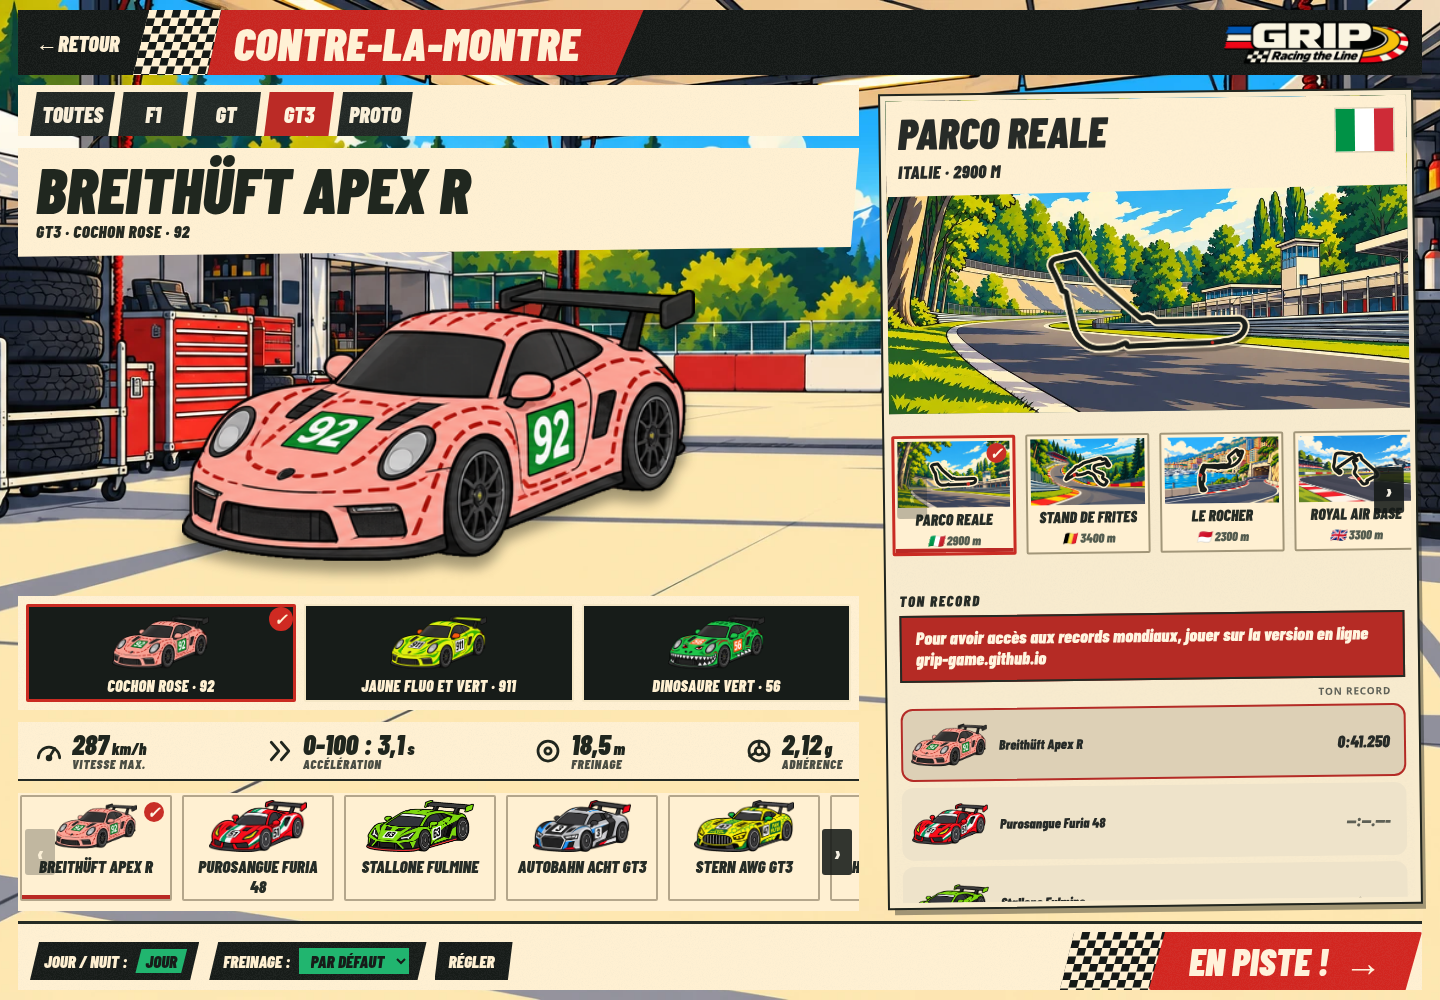
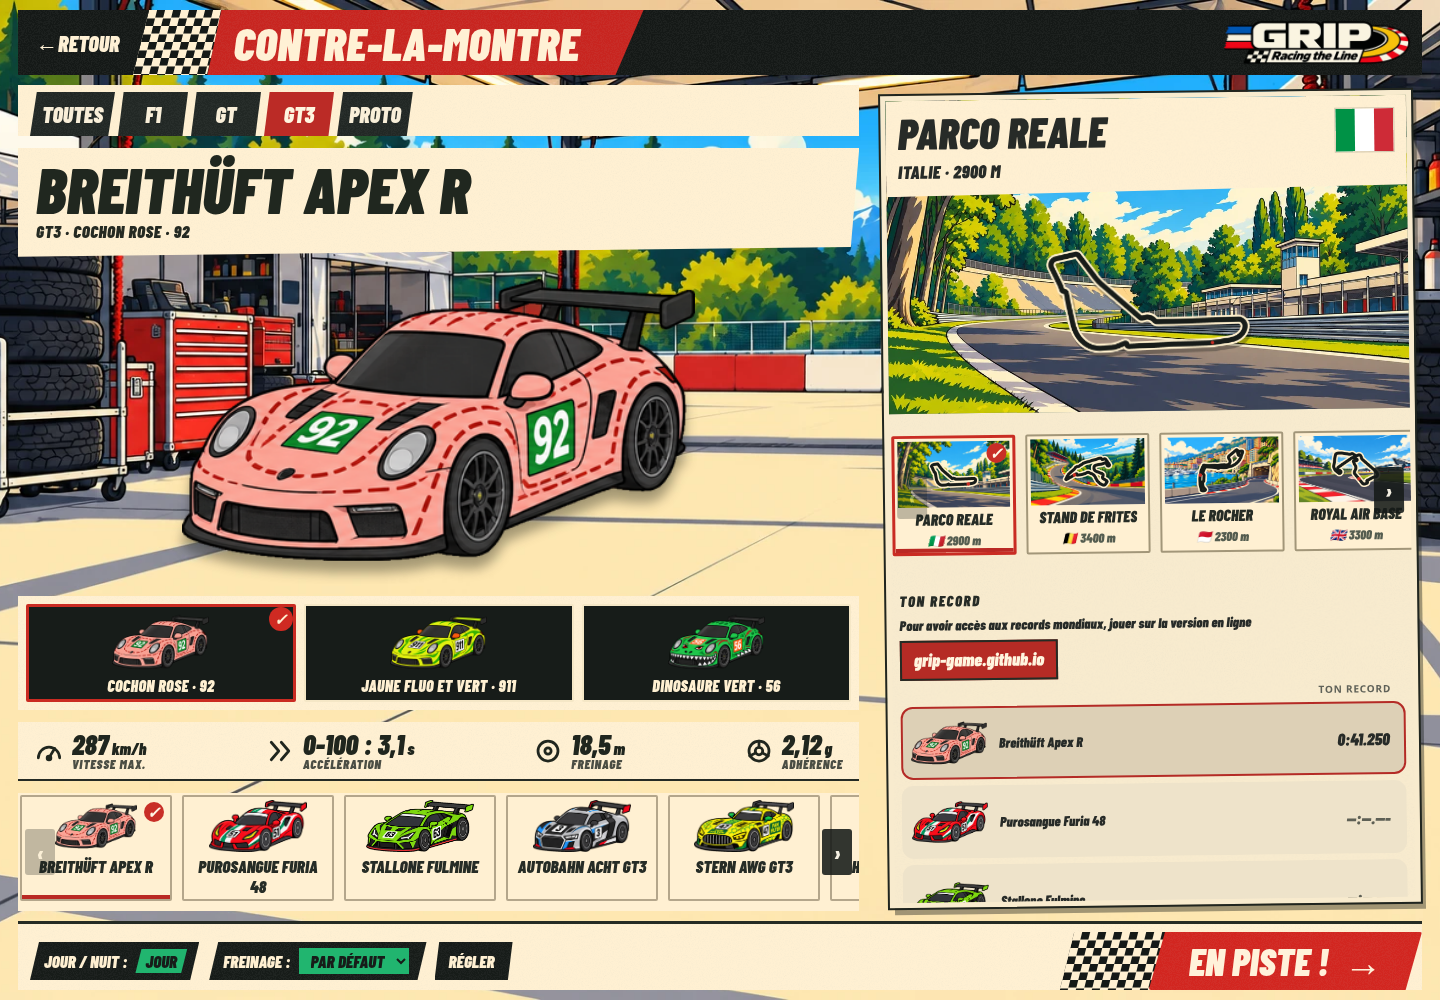
0.55.1: separate world-records explanation from hostname button

Changed region(s): [[0.625, 0.589, 1.0, 0.868], [0.9375, 0.806, 0.9688, 0.837], [0.6562, 0.868, 0.6875, 0.899]]

diff --git a/index.html b/index.html
@@ -15,50 +15,50 @@
   <meta name="color-scheme" content="dark">
   <meta name="darkreader-lock">
   <title>GRIP — Racing the Line</title>
-  <link rel="icon" type="image/png" sizes="32x32" href="art/icone-32.png?v=0.55.0">
-  <link rel="icon" type="image/png" sizes="16x16" href="art/icone-16.png?v=0.55.0">
-  <link rel="icon" type="image/png" sizes="48x48" href="art/icone-48.png?v=0.55.0">
-  <link rel="icon" type="image/x-icon" href="favicon.ico?v=0.55.0">
-  <link rel="apple-touch-icon" href="art/icone-180.png?v=0.55.0">
-  <link rel="manifest" href="site.webmanifest?v=0.55.0">
-  <link rel="stylesheet" href="css/style.css?v=0.55.0">
+  <link rel="icon" type="image/png" sizes="32x32" href="art/icone-32.png?v=0.55.1">
+  <link rel="icon" type="image/png" sizes="16x16" href="art/icone-16.png?v=0.55.1">
+  <link rel="icon" type="image/png" sizes="48x48" href="art/icone-48.png?v=0.55.1">
+  <link rel="icon" type="image/x-icon" href="favicon.ico?v=0.55.1">
+  <link rel="apple-touch-icon" href="art/icone-180.png?v=0.55.1">
+  <link rel="manifest" href="site.webmanifest?v=0.55.1">
+  <link rel="stylesheet" href="css/style.css?v=0.55.1">
 </head>
 <body>
   <canvas id="game"></canvas>
   <div id="ui" class="hidden"></div>
 
-  <script src="js/version.js?v=0.55.0"></script>
-  <script src="js/maj.js?v=0.55.0"></script>
-  <script src="js/util.js?v=0.55.0"></script>
-  <script src="js/controls.js?v=0.55.0"></script>
-  <script src="js/traces.js?v=0.55.0"></script>
-  <script src="js/tracks.js?v=0.55.0"></script>
-  <script src="js/track.js?v=0.55.0"></script>
-  <script src="js/cars.js?v=0.55.0"></script>
-  <script src="js/carart.js?v=0.55.0"></script>
-  <script src="js/car.js?v=0.55.0"></script>
-  <script src="js/flags.js?v=0.55.0"></script>
-  <script src="js/race.js?v=0.55.0"></script>
-  <script src="js/career.js?v=0.55.0"></script>
-  <script src="js/store.js?v=0.55.0"></script>
-  <script src="js/props.js?v=0.55.0"></script>
-  <script src="js/room-rtc.js?v=0.55.0"></script>
-  <script src="js/paquet.js?v=0.55.0"></script>
-  <script src="js/spectator.js?v=0.55.0"></script>
-  <script src="js/net-drive.js?v=0.55.0"></script>
-  <script src="js/net.js?v=0.55.0"></script>
-  <script src="js/mondial.js?v=0.55.0"></script>
-  <script src="js/palmares.js?v=0.55.0"></script>
-  <script src="js/analytics.js?v=0.55.0"></script>
-  <script src="js/circuit-graphics.js?v=0.55.0"></script>
-<script src="js/render.js?v=0.55.0"></script>
-  <script src="js/engine-audio.js?v=0.55.0"></script>
-  <script src="js/audio.js?v=0.55.0"></script>
-  <script src="js/ui.js?v=0.55.0"></script>
-  <script src="js/gamepad-ui.js?v=0.55.0"></script>
-  <script src="js/main.js?v=0.55.0"></script>
-  <script src="js/static-backdrop.js?v=0.55.0"></script>
-  <script src="js/chromium-cache-fix.js?v=0.55.0"></script>
-  <script src="js/chromium-cache.js?v=0.55.0"></script>
+  <script src="js/version.js?v=0.55.1"></script>
+  <script src="js/maj.js?v=0.55.1"></script>
+  <script src="js/util.js?v=0.55.1"></script>
+  <script src="js/controls.js?v=0.55.1"></script>
+  <script src="js/traces.js?v=0.55.1"></script>
+  <script src="js/tracks.js?v=0.55.1"></script>
+  <script src="js/track.js?v=0.55.1"></script>
+  <script src="js/cars.js?v=0.55.1"></script>
+  <script src="js/carart.js?v=0.55.1"></script>
+  <script src="js/car.js?v=0.55.1"></script>
+  <script src="js/flags.js?v=0.55.1"></script>
+  <script src="js/race.js?v=0.55.1"></script>
+  <script src="js/career.js?v=0.55.1"></script>
+  <script src="js/store.js?v=0.55.1"></script>
+  <script src="js/props.js?v=0.55.1"></script>
+  <script src="js/room-rtc.js?v=0.55.1"></script>
+  <script src="js/paquet.js?v=0.55.1"></script>
+  <script src="js/spectator.js?v=0.55.1"></script>
+  <script src="js/net-drive.js?v=0.55.1"></script>
+  <script src="js/net.js?v=0.55.1"></script>
+  <script src="js/mondial.js?v=0.55.1"></script>
+  <script src="js/palmares.js?v=0.55.1"></script>
+  <script src="js/analytics.js?v=0.55.1"></script>
+  <script src="js/circuit-graphics.js?v=0.55.1"></script>
+<script src="js/render.js?v=0.55.1"></script>
+  <script src="js/engine-audio.js?v=0.55.1"></script>
+  <script src="js/audio.js?v=0.55.1"></script>
+  <script src="js/ui.js?v=0.55.1"></script>
+  <script src="js/gamepad-ui.js?v=0.55.1"></script>
+  <script src="js/main.js?v=0.55.1"></script>
+  <script src="js/static-backdrop.js?v=0.55.1"></script>
+  <script src="js/chromium-cache-fix.js?v=0.55.1"></script>
+  <script src="js/chromium-cache.js?v=0.55.1"></script>
 </body>
 </html>

diff --git a/js/ui.js b/js/ui.js
@@ -151,7 +151,7 @@ const I18N = {
     horsClassement: 'Hors tableau mondial : ', horsGuide: 'guide de freinage', horsAimant: 'aimant', horsFf: 'anticipation', horsUsure: 'usure',
     refus_reseau: 'Pas de réseau au moment de l’envoi. Ton temps est gardé ici.',
     refus_autre: (r) => `Temps non retenu par le serveur (${r}).`,
-    onlineRecords: 'Pour avoir accès aux records mondiaux, jouer sur la version en ligne grip-game.github.io', onlineRecordsShort: 'Records mondiaux ↗', worldBest: 'Monde', worldNeedsAccount: 'Connecte-toi pour inscrire tes temps au tableau mondial.', signIn: 'Se connecter avec Google', signOut: 'Se déconnecter',
+    onlineRecords: 'Pour avoir accès aux records mondiaux, jouer sur la version en ligne', onlineRecordsShort: 'Records mondiaux ↗', worldBest: 'Monde', worldNeedsAccount: 'Connecte-toi pour inscrire tes temps au tableau mondial.', signIn: 'Se connecter avec Google', signOut: 'Se déconnecter',
     palmares: 'Ton palmarès', palmaresTrophee: 'Trophée', palmaresNiveau: 'Niveau',
     trophee_chocolat: 'Chocolat', trophee_bronze: 'Bronze', trophee_argent: 'Argent', trophee_or: 'Or', trophee_crane: 'Crâne',
     palmaresRegle: (n) => `Gagne une course d’au moins ${n} tours : le niveau de difficulté donne le trophée.`,
@@ -300,7 +300,7 @@ const I18N = {
     horsClassement: 'Outside the world board: ', horsGuide: 'braking guide', horsAimant: 'magnet', horsFf: 'anticipation', horsUsure: 'tyre wear',
     refus_reseau: 'No network when sending. Your time is kept here.',
     refus_autre: (r) => `Time not kept by the server (${r}).`,
-    onlineRecords: 'To access world records, play the online version at grip-game.github.io', onlineRecordsShort: 'World records ↗', worldBest: 'World', worldNeedsAccount: 'Sign in to put your times on the world board.', signIn: 'Sign in with Google', signOut: 'Sign out',
+    onlineRecords: 'To access world records, play the online version', onlineRecordsShort: 'World records ↗', worldBest: 'World', worldNeedsAccount: 'Sign in to put your times on the world board.', signIn: 'Sign in with Google', signOut: 'Sign out',
     palmares: 'Your trophies', palmaresTrophee: 'Trophy', palmaresNiveau: 'Level',
     trophee_chocolat: 'Chocolate', trophee_bronze: 'Bronze', trophee_argent: 'Silver', trophee_or: 'Gold', trophee_crane: 'Skull',
     palmaresRegle: (n) => `Win a race of at least ${n} laps: the difficulty level gives the trophy.`,
@@ -461,7 +461,8 @@ class UI {
   sens, juste un connecté à Google suffirait ». Le joueur n'a rien à faire de plus : son prochain
   meilleur tour partira de lui-même. */
   worldVersionLink(compact = false) {
-    return `<a class="${compact ? 'extra-card' : 'world-online-link'}" data-world-online href="https://grip-game.github.io/" target="_blank" rel="noopener" title="${escapeHtml(this.t('onlineRecords'))}"><span>${escapeHtml(this.t(compact ? 'onlineRecordsShort' : 'onlineRecords'))}</span></a>`;
+    const link = `<a class="${compact ? 'extra-card' : 'world-online-button'}" data-world-online href="https://grip-game.github.io/" target="_blank" rel="noopener" title="${escapeHtml(this.t('onlineRecords'))}">grip-game.github.io</a>`;
+    return compact ? link : `<span class="world-online-notice"><span class="world-online-copy">${escapeHtml(this.t('onlineRecords'))}</span>${link}</span>`;
   }
 
   etatMondial() {

diff --git a/tools/e2e-itch-records.js b/tools/e2e-itch-records.js
@@ -7,13 +7,13 @@ const ROOT=path.resolve(__dirname,'..'),OUT=path.resolve(process.argv[2]||'/tmp/
  const serve=root=>http.createServer((req,res)=>{const f=path.resolve(root,'.'+decodeURIComponent(req.url.split('?')[0]));if(!f.startsWith(root+path.sep)||!fs.existsSync(f)||!fs.statSync(f).isFile()){res.writeHead(404);return res.end();}res.setHeader('Content-Type',({'.html':'text/html','.js':'text/javascript','.css':'text/css','.json':'application/json','.svg':'image/svg+xml'})[path.extname(f)]||'application/octet-stream');fs.createReadStream(f).pipe(res);});
  const servers=[serve(ROOT),serve(path.join(ROOT,'dist-itch/game'))];for(const s of servers)await new Promise(r=>s.listen(0,'127.0.0.1',r));const browser=await chromium.launch(),errors=[],results=[];
  try{for(const itch of [false,true]){
-  const ctx=await browser.newContext({viewport:{width:1440,height:1000}});await ctx.addInitScript(()=>{try{sessionStorage.setItem('eol.parti',String(Date.now()));}catch(_){}});const p=await ctx.newPage();p.on('pageerror',e=>errors.push(e.message));await p.goto(`http://127.0.0.1:${servers[Number(itch)].address().port}/index.html?v=0.55.0`);await p.waitForFunction(()=>window.app?.save);
+  const ctx=await browser.newContext({viewport:{width:1440,height:1000}});await ctx.addInitScript(()=>{try{sessionStorage.setItem('eol.parti',String(Date.now()));}catch(_){}});const p=await ctx.newPage();p.on('pageerror',e=>errors.push(e.message));await p.goto(`http://127.0.0.1:${servers[Number(itch)].address().port}/index.html?v=0.55.1`);await p.waitForFunction(()=>window.app?.save);
   assert.equal(await p.evaluate(()=>app.isItch),itch);assert.equal(await p.evaluate(()=>app.mondial===null),itch);
   await p.evaluate(()=>{app.save.name='Pilote';app.save.lang='fr';app.ui.lang='fr';app.save.sound=false;app.audio.setEnabled(false);app.state='menu';app.analytics.begin=()=>{};app.analytics.observe=()=>{};app.ui.menu();});
   assert.equal(await p.locator('[data-action="fullscreen"]').count(),0,'itch fullscreen configuration is not a game code change');
   if(itch)assert.equal(await p.locator('[data-world-online]').getAttribute('href'),'https://grip-game.github.io/');
   await p.evaluate(()=>app.ui.settings());
-  if(itch){assert.equal(await p.locator('[data-action="google"]').count(),0);assert.match(await p.locator('[data-world-online]').innerText(),/Pour avoir accès aux records mondiaux/);}
+  if(itch){assert.equal(await p.locator('[data-action="google"]').count(),0);assert.equal(await p.locator('[data-world-online]').innerText(),'grip-game.github.io');assert.match(await p.locator('.world-online-copy').innerText(),/Pour avoir accès aux records mondiaux/);assert.equal(await p.locator('.world-online-copy').evaluate(e=>!!e.closest('a')),false);}
   else{assert(await p.locator('[data-action="google"]').count());assert(!await p.evaluate(()=>app.ui.etatMondial().includes('Redirect URLs')));}
   await p.evaluate(()=>{app.save.cat='gt3';app.save.filtreCat='gt3';app.save.bestLaps['monza|gt3|porsche991gt3r']=41.25;app.ui.setup.classId='gt3';app.ui.setup.trackId='monza';app.ui.setupScreen('timetrial');});
   const text=await p.locator('#ui').innerText();assert(!/Redirect URLs|sans jeton|adresse portait/.test(text));

diff --git a/editor.html b/editor.html
@@ -4,12 +4,12 @@
   <meta charset="utf-8">
   <meta name="viewport" content="width=device-width, initial-scale=1">
   <title>GRIP — Éditeur de circuits</title>
-  <link rel="icon" type="image/png" sizes="32x32" href="art/icone-32.png?v=0.55.0">
-  <link rel="icon" type="image/png" sizes="16x16" href="art/icone-16.png?v=0.55.0">
-  <link rel="icon" type="image/png" sizes="48x48" href="art/icone-48.png?v=0.55.0">
-  <link rel="icon" type="image/x-icon" href="favicon.ico?v=0.55.0">
-  <link rel="apple-touch-icon" href="art/icone-180.png?v=0.55.0">
-  <link rel="stylesheet" href="css/style.css?v=0.55.0">
+  <link rel="icon" type="image/png" sizes="32x32" href="art/icone-32.png?v=0.55.1">
+  <link rel="icon" type="image/png" sizes="16x16" href="art/icone-16.png?v=0.55.1">
+  <link rel="icon" type="image/png" sizes="48x48" href="art/icone-48.png?v=0.55.1">
+  <link rel="icon" type="image/x-icon" href="favicon.ico?v=0.55.1">
+  <link rel="apple-touch-icon" href="art/icone-180.png?v=0.55.1">
+  <link rel="stylesheet" href="css/style.css?v=0.55.1">
   <style>
     body { overflow: hidden; }
     #ed { position: fixed; inset: 0; display: grid; grid-template-columns: 300px 1fr; }
@@ -61,16 +61,16 @@
       </div>
     </div>
   </div>
-  <script src="js/util.js?v=0.55.0"></script>
-  <script src="js/traces.js?v=0.55.0"></script>
-  <script src="js/tracks.js?v=0.55.0"></script>
-  <script src="js/track.js?v=0.55.0"></script>
-  <script src="js/store.js?v=0.55.0"></script>
-  <script src="js/props.js?v=0.55.0"></script>
-  <script src="js/circuit-graphics.js?v=0.55.0"></script>
-  <script src="js/flags.js?v=0.55.0"></script>
-  <script src="js/render.js?v=0.55.0"></script>
-  <script src="js/fichier-tracks.js?v=0.55.0"></script>
-  <script src="js/editeur-decor.js?v=0.55.0"></script>
+  <script src="js/util.js?v=0.55.1"></script>
+  <script src="js/traces.js?v=0.55.1"></script>
+  <script src="js/tracks.js?v=0.55.1"></script>
+  <script src="js/track.js?v=0.55.1"></script>
+  <script src="js/store.js?v=0.55.1"></script>
+  <script src="js/props.js?v=0.55.1"></script>
+  <script src="js/circuit-graphics.js?v=0.55.1"></script>
+  <script src="js/flags.js?v=0.55.1"></script>
+  <script src="js/render.js?v=0.55.1"></script>
+  <script src="js/fichier-tracks.js?v=0.55.1"></script>
+  <script src="js/editeur-decor.js?v=0.55.1"></script>
 </body>
 </html>

diff --git a/lignes.html b/lignes.html
@@ -4,12 +4,12 @@
 <meta charset="utf-8">
 <meta name="viewport" content="width=device-width, initial-scale=1, viewport-fit=cover, maximum-scale=1">
 <title>GRIP — Éditeur de lignes et de panneaux</title>
-<link rel="icon" type="image/png" sizes="32x32" href="art/icone-32.png?v=0.55.0">
-<link rel="icon" type="image/png" sizes="16x16" href="art/icone-16.png?v=0.55.0">
-<link rel="icon" type="image/png" sizes="48x48" href="art/icone-48.png?v=0.55.0">
-<link rel="icon" type="image/x-icon" href="favicon.ico?v=0.55.0">
-<link rel="apple-touch-icon" href="art/icone-180.png?v=0.55.0">
-<link rel="stylesheet" href="css/style.css?v=0.55.0">
+<link rel="icon" type="image/png" sizes="32x32" href="art/icone-32.png?v=0.55.1">
+<link rel="icon" type="image/png" sizes="16x16" href="art/icone-16.png?v=0.55.1">
+<link rel="icon" type="image/png" sizes="48x48" href="art/icone-48.png?v=0.55.1">
+<link rel="icon" type="image/x-icon" href="favicon.ico?v=0.55.1">
+<link rel="apple-touch-icon" href="art/icone-180.png?v=0.55.1">
+<link rel="stylesheet" href="css/style.css?v=0.55.1">
 <style>
   body { overflow: hidden; }
   #ed { position: fixed; inset: 0; display: grid; grid-template-columns: 340px 1fr; }
@@ -240,16 +240,16 @@
   </div>
 </div>
 
-<script src="js/store.js?v=0.55.0"></script>
-<script src="js/util.js?v=0.55.0"></script>
-<script src="js/traces.js?v=0.55.0"></script>
-<script src="js/tracks.js?v=0.55.0"></script>
-<script src="js/track.js?v=0.55.0"></script>
-<script src="js/props.js?v=0.55.0"></script>
-<script src="js/circuit-graphics.js?v=0.55.0"></script>
-<script src="js/flags.js?v=0.55.0"></script>
-<script src="js/render.js?v=0.55.0"></script>
-<script src="js/fichier-tracks.js?v=0.55.0"></script>
-<script src="js/lignes.js?v=0.55.0"></script>
+<script src="js/store.js?v=0.55.1"></script>
+<script src="js/util.js?v=0.55.1"></script>
+<script src="js/traces.js?v=0.55.1"></script>
+<script src="js/tracks.js?v=0.55.1"></script>
+<script src="js/track.js?v=0.55.1"></script>
+<script src="js/props.js?v=0.55.1"></script>
+<script src="js/circuit-graphics.js?v=0.55.1"></script>
+<script src="js/flags.js?v=0.55.1"></script>
+<script src="js/render.js?v=0.55.1"></script>
+<script src="js/fichier-tracks.js?v=0.55.1"></script>
+<script src="js/lignes.js?v=0.55.1"></script>
 </body>
 </html>

diff --git a/moteur.html b/moteur.html
@@ -4,12 +4,12 @@
   <meta charset="utf-8">
   <meta name="viewport" content="width=device-width, initial-scale=1, viewport-fit=cover">
   <title>GRIP — banc moteur</title>
-  <link rel="icon" type="image/png" sizes="32x32" href="art/icone-32.png?v=0.55.0">
-  <link rel="icon" type="image/png" sizes="16x16" href="art/icone-16.png?v=0.55.0">
-  <link rel="icon" type="image/png" sizes="48x48" href="art/icone-48.png?v=0.55.0">
-  <link rel="icon" type="image/x-icon" href="favicon.ico?v=0.55.0">
-  <link rel="apple-touch-icon" href="art/icone-180.png?v=0.55.0">
-  <link rel="stylesheet" href="css/style.css?v=0.55.0">
+  <link rel="icon" type="image/png" sizes="32x32" href="art/icone-32.png?v=0.55.1">
+  <link rel="icon" type="image/png" sizes="16x16" href="art/icone-16.png?v=0.55.1">
+  <link rel="icon" type="image/png" sizes="48x48" href="art/icone-48.png?v=0.55.1">
+  <link rel="icon" type="image/x-icon" href="favicon.ico?v=0.55.1">
+  <link rel="apple-touch-icon" href="art/icone-180.png?v=0.55.1">
+  <link rel="stylesheet" href="css/style.css?v=0.55.1">
   <style>
     body { margin: 0; background: #0f1117; color: #e8e8ec; font: 15px/1.5 system-ui, sans-serif; }
     .banc { max-width: 720px; margin: 0 auto; padding: 18px 16px 60px; }
@@ -55,7 +55,7 @@
     <p class="muted" style="margin-top:18px">Ce que le mélangeur envoie, en direct :</p>
     <table id="voies"></table>
   </div>
-  <script src="js/engine-audio.js?v=0.55.0"></script>
-  <script src="js/moteur.js?v=0.55.0"></script>
+  <script src="js/engine-audio.js?v=0.55.1"></script>
+  <script src="js/moteur.js?v=0.55.1"></script>
 </body>
 </html>

diff --git a/analytics.html b/analytics.html
@@ -6,8 +6,8 @@
   <meta name="robots" content="noindex,nofollow">
   <meta name="referrer" content="same-origin">
   <title>Statistiques · GRIP</title>
-  <link rel="icon" href="art/icone-32.png?v=0.55.0">
-  <link rel="stylesheet" href="css/analytics.css?v=0.55.0">
+  <link rel="icon" href="art/icone-32.png?v=0.55.1">
+  <link rel="stylesheet" href="css/analytics.css?v=0.55.1">
 </head>
 <body>
   <header><a class="brand" href="index.html">GRIP <span> / ANALYTICS</span></a>
@@ -45,9 +45,9 @@
         <p><span data-i18n="charts">Graphiques :</span> <a href="https://github.com/apache/echarts">Apache ECharts 6.0.0</a> · <a href="vendor/echarts/LICENSE">Apache 2.0</a>. <a href="docs/analytics/README.md" data-i18n="install">Installation et définitions</a>.</p></footer>
     </div>
   </main>
-  <script src="js/version.js?v=0.55.0"></script><script src="js/util.js?v=0.55.0"></script>
-  <script src="js/traces.js?v=0.55.0"></script><script src="js/tracks.js?v=0.55.0"></script><script src="js/cars.js?v=0.55.0"></script>
-  <script src="js/mondial.js?v=0.55.0"></script><script src="vendor/echarts/echarts.min.js?v=0.55.0"></script>
-  <script src="js/analytics-dashboard.js?v=0.55.0"></script>
+  <script src="js/version.js?v=0.55.1"></script><script src="js/util.js?v=0.55.1"></script>
+  <script src="js/traces.js?v=0.55.1"></script><script src="js/tracks.js?v=0.55.1"></script><script src="js/cars.js?v=0.55.1"></script>
+  <script src="js/mondial.js?v=0.55.1"></script><script src="vendor/echarts/echarts.min.js?v=0.55.1"></script>
+  <script src="js/analytics-dashboard.js?v=0.55.1"></script>
 </body>
 </html>

diff --git a/css/style.css b/css/style.css
@@ -1332,7 +1332,8 @@ Bruno sur un iPhone à Dynamic Island :
 .trophee-gagne > div { display:flex; flex-direction:column; gap:6px; }
 
 /* The itch export keeps local times and links to the hosted world leaderboard. */
-.world-online-link { display:block; padding:10px 14px; margin:6px 0; color:#fff5df; background:#b52b25; border:2px solid #252b24; text-decoration:none; font:italic 900 18px/1.2 Racing,Impact,sans-serif; }
-.world-online-link:hover,.world-online-link:focus-visible { background:#96211e; outline:2px solid #e7b954; }
+.world-online-notice { display:flex; flex-wrap:wrap; align-items:center; gap:6px 10px; margin:6px 0; font:14px/1.4 system-ui,sans-serif; }
+.world-online-button { display:inline-flex; padding:7px 12px; color:#fff5df; background:#b52b25; border:2px solid #252b24; text-decoration:none; font:italic 900 18px/1.2 Racing,Impact,sans-serif; }
+.world-online-button:hover,.world-online-button:focus-visible { background:#96211e; outline:2px solid #e7b954; }
 .records.local-records .rhead,.records.local-records .rline { grid-template-columns:76px minmax(0,1fr) 106px; }
 @media(max-width:500px){.records.local-records .rhead,.records.local-records .rline{grid-template-columns:58px minmax(0,1fr) 90px;}}

diff --git a/js/version.js b/js/version.js
@@ -11,7 +11,7 @@ browser to fetch the new files.
 */
 'use strict';
 
-const APP_VERSION = '0.55.0';
+const APP_VERSION = '0.55.1';
 const APP_DATE = '2026-11-16';
 /* Le canal. Le dépôt, tel quel, EST la recette : c'est lui que sert brunodrapi.github.io/Slot_car_racing,
 code source commenté compris. La prod est la version fabriquée par `tools/build-dist.js`, qui écrit

diff --git a/docs/itch/README.md b/docs/itch/README.md
@@ -1,15 +1,16 @@
-# Édition itch.io — 0.55.0
+# Édition itch.io — 0.55.1
 
-L’export dédié conserve les records locaux et remplace l’accès au tableau mondial par un bouton :
-**Pour avoir accès aux records mondiaux, jouer sur la version en ligne grip-game.github.io**.
+L’export dédié conserve les records locaux. Une phrase simple indique : « Pour avoir accès aux
+records mondiaux, jouer sur la version en ligne ». Seul **grip-game.github.io** est un bouton.
 Le lien ouvre **https://grip-game.github.io/** dans un nouvel onglet. Le menu propose aussi une
 entrée « Records mondiaux ». La connexion Google n’est pas lancée depuis cette édition.
 
 Les réglages de taille et de plein écran restent ceux d’itch.io : aucune modification du HUD,
 des menus ou du comportement de lancement en plein écran n’est ajoutée pour cette intégration.
 
-- [Branche itch-io du dépôt PROD](https://github.com/GRIP-game/grip-game.github.io/tree/itch-io)
-- [ZIP HTML5 prêt à charger](https://github.com/GRIP-game/grip-game.github.io/raw/refs/heads/itch-io/grip-itch-0.55.0.zip)
+La branche `itch-io` et le ZIP `grip-itch.zip` sont préparés dans le checkout PROD local.
+Leur publication sur `GRIP-game/grip-game.github.io` reste bloquée par un refus GitHub 403
+avec les accès disponibles. La branche `main` de PROD reste inchangée.
 - [Aperçu du bouton dans les records](itch-records.png)
 - [Contrôles de l’export](verification.json)
 

diff --git a/CHANGELOG.md b/CHANGELOG.md
@@ -4,6 +4,9 @@ Ce qui change pour le joueur, version par version, en une ligne et sans détail 
 message des publications en prod (`tools/publier.sh`) ; le pourquoi et les mesures sont dans le code
 et dans le README.
 
+## 0.55.1
+- Export itch.io : seule l’adresse grip-game.github.io est un bouton ; la phrase d’explication reste du texte.
+
 ## 0.55.0
 - Purosangue Gran Corsa : pneus avant élargis comme les pneus arrière, sur ses trois livrées.
 - Le message technique de retour Google n’apparaît plus. L’export itch.io propose les records locaux et un bouton vers grip-game.github.io pour les records mondiaux.

diff --git a/docs/feux/README.md b/docs/feux/README.md
@@ -1,4 +1,4 @@
-# Feux selon la carrosserie — 0.55.0
+# Feux selon la carrosserie — 0.55.1
 
 Les 35 modèles ont des points d’attache propres, mesurés dans le repère de leur dessin : les
 phares ronds des Breithüft et Moggy, les rectangles des anciennes Howitzer et Stallone, les
